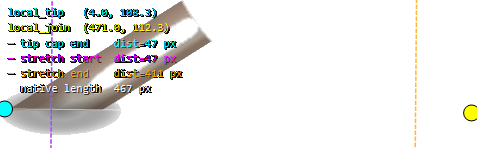
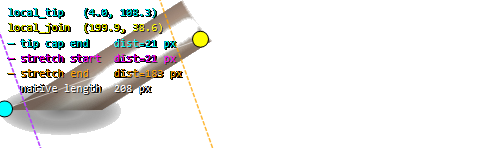
improved pin7 segmentation

diff --git a/docs/exec-plans/active/composite-pin-head-placement-fix-plan.md b/docs/exec-plans/active/composite-pin-head-placement-fix-plan.md
@@ -1,6 +1,6 @@
 # Composite Pin Head Placement Fix Plan
 
-**Status:** Phase 1 implemented (all 211 tests pass) — Phase 2 remaining-offset investigation in progress
+**Status:** Phase 1 implemented (all 211 tests pass) — Phase 2 investigation complete — Phase 3 (pin_07 recalibration) in progress
 **Scope:** `CompositePinRenderPlanBuilder.cs`, head-placement logic only
 **Author:** Investigation 2026-06-07
 
@@ -369,20 +369,106 @@ This was **not** what the user requested, so it is not pursued.
 
 ---
 
-### 7.6 Recommended Next Steps (not yet implemented)
+### 7.6 Debug Image Inspection — Completed
 
-1. **Inspect debug images** from `Tools/PinDebugger/` — verify that green dots (local_center)
-   land exactly at the visual ball centre for all 12 heads, and that cyan/yellow dots land at the
-   correct shaft tip/join positions.
+Debug images in `Tools/PinDebugger/output_v2/` were inspected (annotate mode). The inspection
+confirmed that for pin_07 the yellow `local_join` dot was landing in empty space far to the right
+of the visible shaft — directly on the disconnected shadow blob. This drove the Phase 3 work
+documented in §8.
 
-2. **If hypothesis 1 is confirmed** (collar overshoots the join): clip the shaft head-cap layer's
-   rendered area so its *screen-space top* coincides with `JoinAnchorLocal`. Concretely: restrict
-   the head-cap clip band's upper boundary in *source* space by subtracting a small amount equal
-   to the collar's visual overhang.
+---
 
-3. **If hypothesis 2 is confirmed** (pin_09/10 inverted shading looks wrong): consider swapping
-   those head images for versions that have stub_direction_deg ≈ 180°, or accept the current
-   appearance (centre is mathematically correct).
+## 8. Phase 3 — Pin_07 Shadow Removal & Geometry Recalibration
 
-4. **Tune `TargetHeadRadiusPx`** once the collar alignment is confirmed correct — the current
-   value of 14.0 px may be adjusted for aesthetic balance.
+### 8.1 Root Cause: Disconnected Shadow Blob in Pin_07 Shaft Images
+
+Both `pin_07_shaft.png` and `pin_07_shaft_lit.png` contained a large, fully-disconnected cast-shadow
+region to the right of the actual shaft. This blob:
+
+- Was **not connected** to the shaft tip pixel cluster (flood-fill from `local_tip` does not reach it).
+- Caused the original calibration tool to extend `local_join` and `native_length` to the far edge
+  of the shadow rather than the real shaft collar.
+
+| Geometry field | Current (wrong) value | Correct (approximate) value |
+|----------------|----------------------|-----------------------------|
+| `local_join`   | `(471, 112.3)`       | ~`(200, 39)` (from find-join) |
+| `native_length`| `467 px`             | ~`208 px` (from find-join) |
+| `axis_length`  | `467`                | ~`208` |
+
+The segmentation distances (tip_cap_length, stretch_start/end, stretchable_length) are proportional
+to the old native_length and must also be recalculated from the cleaned image.
+
+### 8.2 Shadow Removal — Done
+
+PinDebugger `--clean` mode (flood-fill from `local_tip`, zero disconnected islands) was run on
+both shaft images. The cleaned outputs were copied over the originals in the parts folder:
+
+- `Images&Content/Pins_v2/parts/pin_07_shaft.png` ← replaced with cleaned version
+- `Images&Content/Pins_v2/parts/pin_07_shaft_lit.png` ← replaced with cleaned version
+
+The originals are preserved in `Tools/PinDebugger/cleaned/pin_07_shaft_clean.png` and
+`Tools/PinDebugger/cleaned/pin_07_shaft_lit_clean.png`.
+
+### 8.3 PinDebugger Tooling Reference
+
+| Mode | Command | What it does |
+|------|---------|--------------|
+| Annotate | `dotnet run --project Tools\PinDebugger` | Draws calibration dots on all 36 head/shaft/shaft_lit images into `output_v2/` |
+| Clean | `dotnet run --project Tools\PinDebugger -- --clean` | Flood-fills from `local_tip`, zeroes disconnected pixel islands |
+| Find-join | `dotnet run --project Tools\PinDebugger -- --find-join` | Projects shaft pixels onto native axis, reports centroid of farthest 3% as suggested new `local_join`; outputs JSON patch snippet |
+
+### 8.4 Next Steps — Ordered Action List
+
+**Step 1 — Recalibrate pin_07 geometry (CURRENT BLOCKER)**
+
+Re-run the original 3D/analysis tool on `Images&Content/Pins_v2/parts/pin_07_shaft.png`
+(the cleaned version now in place) to obtain correct values for:
+
+```
+local_tip                 (should be unchanged, near (4, 108.3))
+local_join                (real shaft collar endpoint, approx (200, 39))
+native_length             (euclidean tip→join, approx 208 px)
+tip_cap_length            (recalculate proportionally or re-measure)
+stretch_start_distance    (= tip_cap_length)
+stretch_end_distance      (native_length − head_cap_length)
+stretchable_length        (stretch_end − stretch_start)
+head_cap_length           (re-measure from cleaned image collar graphic)
+```
+
+As a quick-start cross-check, run find-join mode to get the suggested `local_join` patch:
+```
+dotnet run --project Tools\PinDebugger -- --find-join
+```
+
+Then update `pin_part_geometry.json` for `pin_07` with the corrected values.
+Also update the `alignment` block fields (`head_center_delta_px`, `tip_delta_px`,
+`head_side_vs_center_delta_px`) using the analysis tool output.
+
+**Step 2 — Run all tests**
+
+`dotnet test` — expect all 211 to pass (no logic changes, only JSON data change).
+
+**Step 3 — Visual verification with app**
+
+Run the app and inspect pin_07 specifically:
+- Head should be centered at the shaft endpoint with no visible gap.
+- The shaft collar graphic should align with (or be covered by) the head ball.
+- Head size should be ~14 px radius, consistent with all other pins.
+
+Then check pin_04 and pin_09 (short-shaft pins) for any residual collar-overhang disconnect (§7.3).
+
+**Step 4 — If collar overhang is visible (hypothesis 1 from §7.5)**
+
+Clip the shaft head-cap layer's upper boundary in source space so its visual top aligns with
+`JoinAnchorLocal`. One-line change in `AssembleResult` in `CompositePinRenderPlanBuilder.cs`.
+
+**Step 5 — If pin_09/10 inverted shading looks wrong (hypothesis 2 from §7.5)**
+
+The ball centre placement is mathematically correct. The visual issue is that specular highlights
+appear upside-down because `stub_direction_deg ≈ 0°` for these pins. Options:
+- Accept the current appearance (centre is correct).
+- Replace those head images with equivalents whose stub faces downward (~180°).
+
+**Step 6 — Tune `TargetHeadRadiusPx`** (currently `14.0` in `visual-config.json`)
+
+Adjust up or down for aesthetic balance once all alignment issues are resolved.
